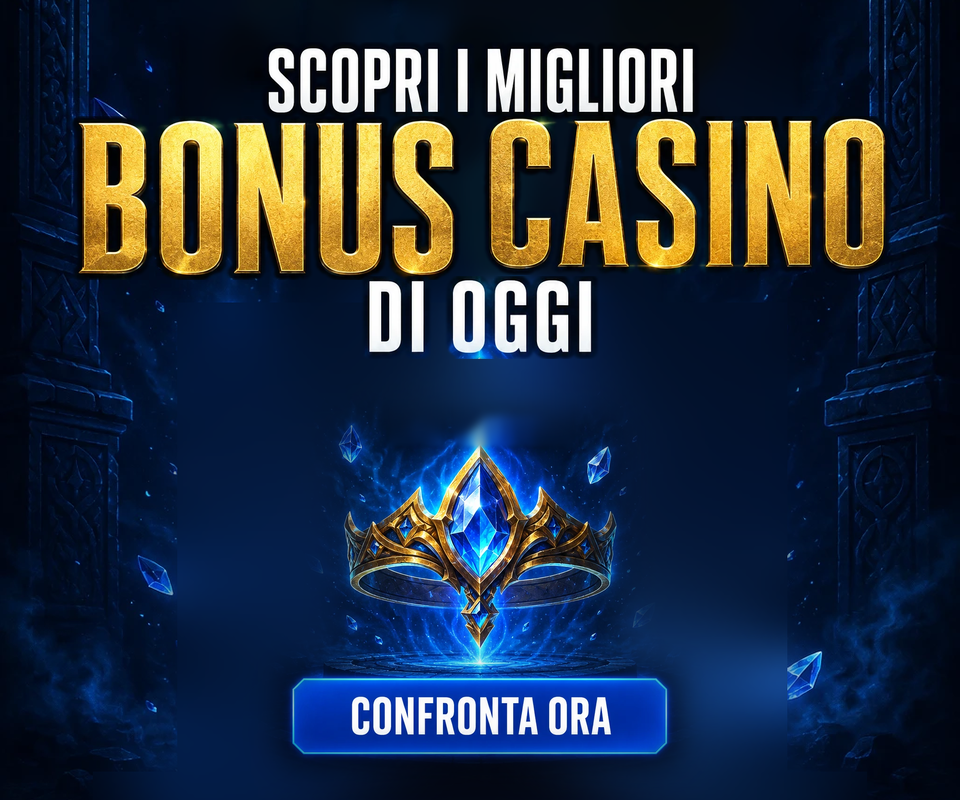
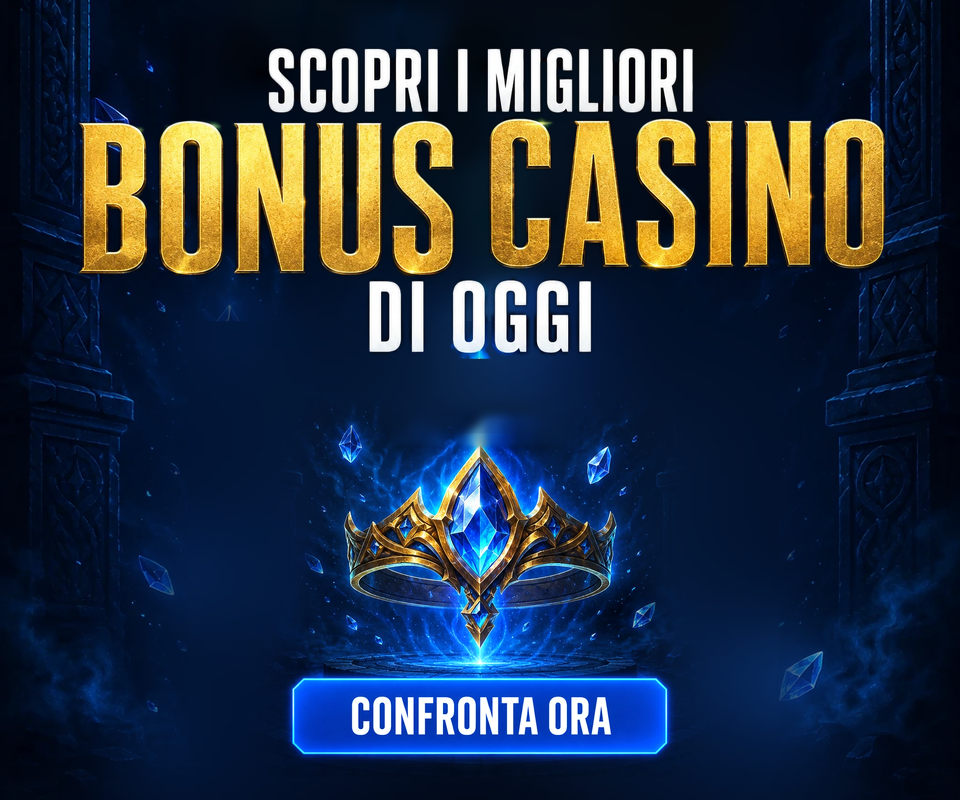
300x250: remove visible mask edges on slides 01 and 05
- Center objects merged into the widened background in the gradient
  domain (seamless clone) instead of a feathered rectangle.
- Reconstructed background areas now fade softly, no hard box edge.
- Headline matte taken from difference with the rebuilt background,
  so letters no longer carry a dark band of the master's backdrop.

Claude-Session: https://claude.ai/code/session_0176yRQt6RuLzx2j9KUFoMCX

diff --git a/tools/lib.py b/tools/lib.py
@@ -63,6 +63,19 @@ def rectmask(shape, boxes):
     m=np.zeros(shape[:2],np.uint8)
     for x0,y0,x1,y1 in boxes: m[y0:y1,x0:x1]=1
     return m
+def ambient_soft(pl, objboxes, scale=0.125, blur=5, grow=40, soft=35):
+    s=pl.astype(np.uint8)
+    sm=cv2.resize(s,None,fx=scale,fy=scale,interpolation=cv2.INTER_AREA)
+    m=rectmask(pl.shape,objboxes)
+    mm=cv2.resize(m,(sm.shape[1],sm.shape[0]),interpolation=cv2.INTER_NEAREST)
+    mm=cv2.dilate(mm,np.ones((5,5),np.uint8))
+    ip=cv2.inpaint(sm,mm*255,30,cv2.INPAINT_TELEA)
+    ip=cv2.GaussianBlur(ip,(0,0),blur)
+    ip=cv2.resize(ip,(s.shape[1],s.shape[0]),interpolation=cv2.INTER_CUBIC).astype(np.float32)
+    k=cv2.getStructuringElement(cv2.MORPH_ELLIPSE,(2*grow+1,2*grow+1))
+    a=cv2.GaussianBlur(cv2.dilate(m,k).astype(np.float32),(0,0),soft)
+    a=np.maximum(a,m.astype(np.float32))[...,None]
+    return pl*(1-a)+ip*a
 def ambient(pl, objboxes, scale=0.25, blur=6):
     s=pl.astype(np.uint8)
     sm=cv2.resize(s,None,fx=scale,fy=scale,interpolation=cv2.INTER_AREA)
@@ -98,3 +111,44 @@ def compose_bg(pl, amb, W,H, s_amb, y_amb, s_obj, x_obj, y_obj, objbox, f=40):
     pp=p[cy0-Y:cy1-Y, cx0-X:cx1-X]; mm=m[cy0-Y:cy1-Y, cx0-X:cx1-X]
     cv[cy0:cy1,cx0:cx1]=cv[cy0:cy1,cx0:cx1]*(1-mm)+pp*mm
     return cv
+def element_matte(src, pl, mask, box, feather=1.5, t0=10, t1=45):
+    """alpha da differenza col fondo ricostruito: porta solo lettere+ombra, non il fondo del master."""
+    x0,y0,x1,y1=box
+    d=np.abs(src-pl).max(axis=2)
+    a=np.clip((d-t0)/(t1-t0),0,1)
+    core=cv2.erode(mask,np.ones((9,9),np.uint8)).astype(np.float32)
+    a=np.maximum(a*mask,core)
+    a=cv2.GaussianBlur(a,(0,0),feather)
+    return src[y0:y1,x0:x1].copy(), a[y0:y1,x0:x1]
+def compose_detail(pl, amb, W,H, s_amb, y_amb, s_obj, x_obj, y_obj):
+    """sfondo = ambient a scala s_amb; oggetti = (plate - ambient) a scala s_obj, sommati: nessuna maschera/bordo."""
+    W=int(round(W*F)); H=int(round(H*F)); s_amb*=F; y_amb=int(round(y_amb*F)); s_obj*=F; x_obj*=F; y_obj*=F
+    a=resize(amb,s_amb); ah,aw=a.shape[:2]; xa=(aw-W)//2
+    cv=a[-y_amb:-y_amb+H, xa:xa+W].copy()
+    P=300
+    D=cv2.copyMakeBorder(pl-amb,P,P,P,P,cv2.BORDER_CONSTANT,value=0)
+    d=resize(D,s_obj); dh,dw=d.shape[:2]
+    X=int(round(x_obj-P*s_obj)); Y=int(round(y_obj-P*s_obj))
+    cx0=max(0,X); cy0=max(0,Y); cx1=min(W,X+dw); cy1=min(H,Y+dh)
+    cv[cy0:cy1,cx0:cx1]+=d[cy0-Y:cy1-Y, cx0-X:cx1-X]
+    return cv
+def compose_poisson(pl, amb, W,H, s_amb, y_amb, s_obj, x_obj, y_obj, polys, mode=cv2.NORMAL_CLONE):
+    """ambient grande + plate piccolo fuso in dominio gradiente (seamlessClone) dentro poligoni src."""
+    W=int(round(W*F)); H=int(round(H*F)); s_amb*=F; y_amb=int(round(y_amb*F)); s_obj*=F; x_obj*=F; y_obj*=F
+    a=resize(amb,s_amb); ah,aw=a.shape[:2]; xa=(aw-W)//2
+    dst=np.clip(a[-y_amb:-y_amb+H, xa:xa+W],0,255).astype(np.uint8)
+    P=300
+    plp=cv2.copyMakeBorder(pl,P,P,P,P,cv2.BORDER_REFLECT)
+    p=resize(plp,s_obj); X=int(round(x_obj-P*s_obj)); Y=int(round(y_obj-P*s_obj))
+    srcimg=np.zeros_like(dst)
+    ph,pw=p.shape[:2]
+    cx0=max(0,X); cy0=max(0,Y); cx1=min(W,X+pw); cy1=min(H,Y+ph)
+    srcimg[cy0:cy1,cx0:cx1]=np.clip(p[cy0-Y:cy1-Y, cx0-X:cx1-X],0,255).astype(np.uint8)
+    m=np.zeros((H,W),np.uint8)
+    for poly in polys:
+        pts=np.array([[x_obj+px*s_obj, y_obj+py*s_obj] for px,py in poly],np.int32)
+        cv2.fillPoly(m,[pts],255)
+    m[:2]=0; m[-2:]=0; m[:,:2]=0; m[:,-2:]=0
+    ys,xs=np.where(m>0); c=((xs.min()+xs.max())//2,(ys.min()+ys.max())//2)
+    out=cv2.seamlessClone(srcimg,dst,m,c,mode)
+    return out.astype(np.float32)

diff --git a/tools/build_300x250.py b/tools/build_300x250.py
@@ -27,10 +27,11 @@ def slide1():
     allm=np.zeros_like(M['scopri'])
     for m in M.values(): allm|=m
     pl=plate(src,allm)
-    amb=ambient(pl,[(190,800,840,1300),(100,1300,925,1510)])
+    M={k:textmask(src,[b],dil=5) for k,b in B.items()}
+    amb=ambient_soft(pl,[(200,820,830,1290),(110,1310,915,1500)])
     s=0.60; dy=945-1492*s   # CTA bottom a 945 (margine come il top)
-    cv=compose_bg(pl,amb,W,H,SA,-560,s,(W-1024*s)/2,dy,[(225,790,800,1300),(105,1310,920,1505)],f=22)
-    E={key:element(src,M[key],B[key]) for key in B}
+    cv=compose_detail(pl,amb,W,H,SA,-560,s,(W-1024*s)/2,dy)
+    E={key:element_matte(src,pl,M[key],B[key]) for key in B}
     y=headline_rows(cv,E,B,[['scopri'],['bonus','casino'],['oggi']],0.78,52)
     return cv,(y,835*s+dy)
 
@@ -41,10 +42,14 @@ def slide5():
     allm=np.zeros_like(M['bonus'])
     for m in M.values(): allm|=m
     pl=plate(src,allm)
-    amb=ambient(pl,[(300,740,730,1180),(10,1150,1014,1330),(120,1300,905,1510)])
+    M={k:textmask(src,[b],dil=5) for k,b in B.items()}  # matte stretto: niente ombra lunga sotto le lettere
+    amb=ambient_soft(pl,[(320,760,710,1170),(20,1160,1004,1320),(130,1310,895,1500)])
     s=0.60; dy=945-1484*s
-    cv=compose_bg(pl,amb,W,H,SA,-560,s,(W-1024*s)/2,dy,[(150,500,875,1150),(140,1150,885,1330),(125,1300,900,1510)],f=32)
-    E={key:element(src,M[key],B[key]) for key in B}
+    # ellisse attorno a cristallo+piattaforma+CTA, fusa in dominio gradiente
+    import math
+    ell=[(512+440*math.cos(t/40*2*math.pi), 1130+400*math.sin(t/40*2*math.pi)) for t in range(40)]
+    cv=compose_poisson(pl,amb,W,H,SA,-650,s,(W-1024*s)/2,dy,[[(4,470),(1020,470),(1020,1600),(4,1600)]])
+    E={key:element_matte(src,pl,M[key],B[key]) for key in B}
     y=headline_rows(cv,E,B,[['confronta','imigliori'],['bonus','casino']],0.715,70,gap_x=22,gap_y=0)
     return cv,(y,775*s+dy)
 
